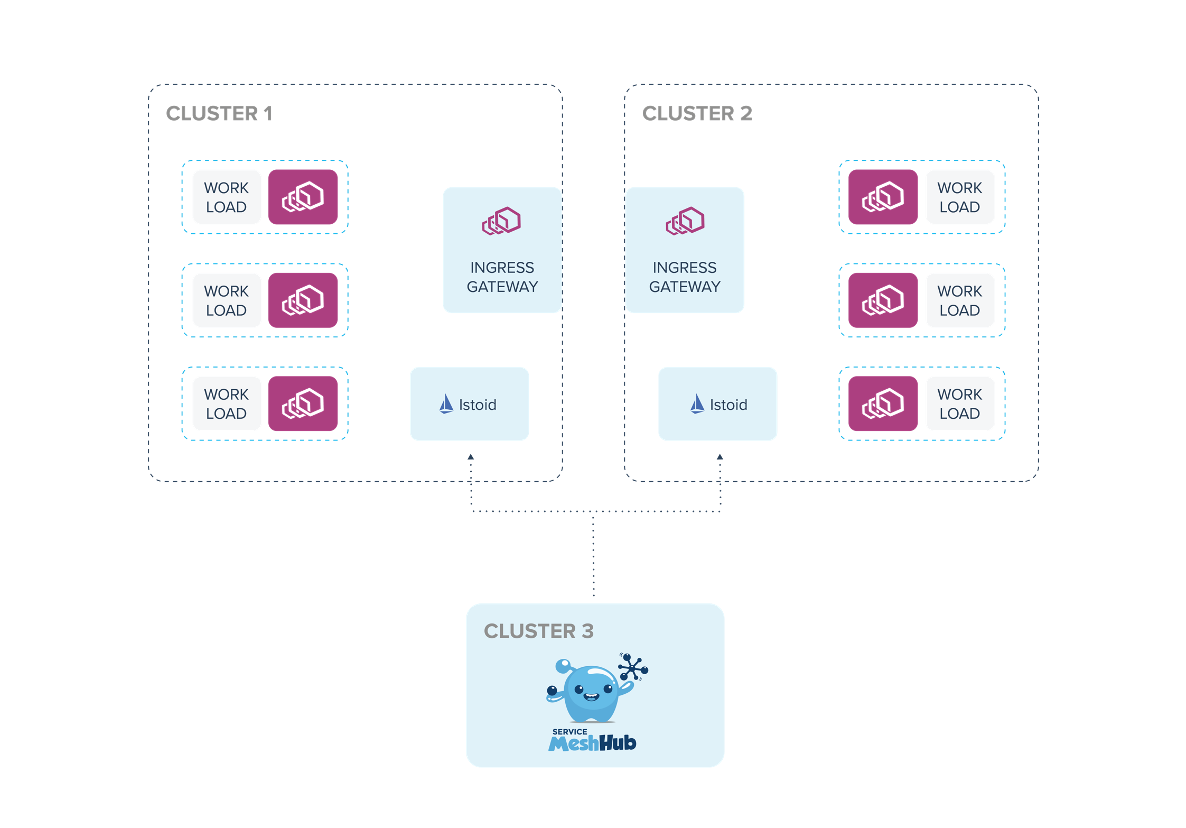
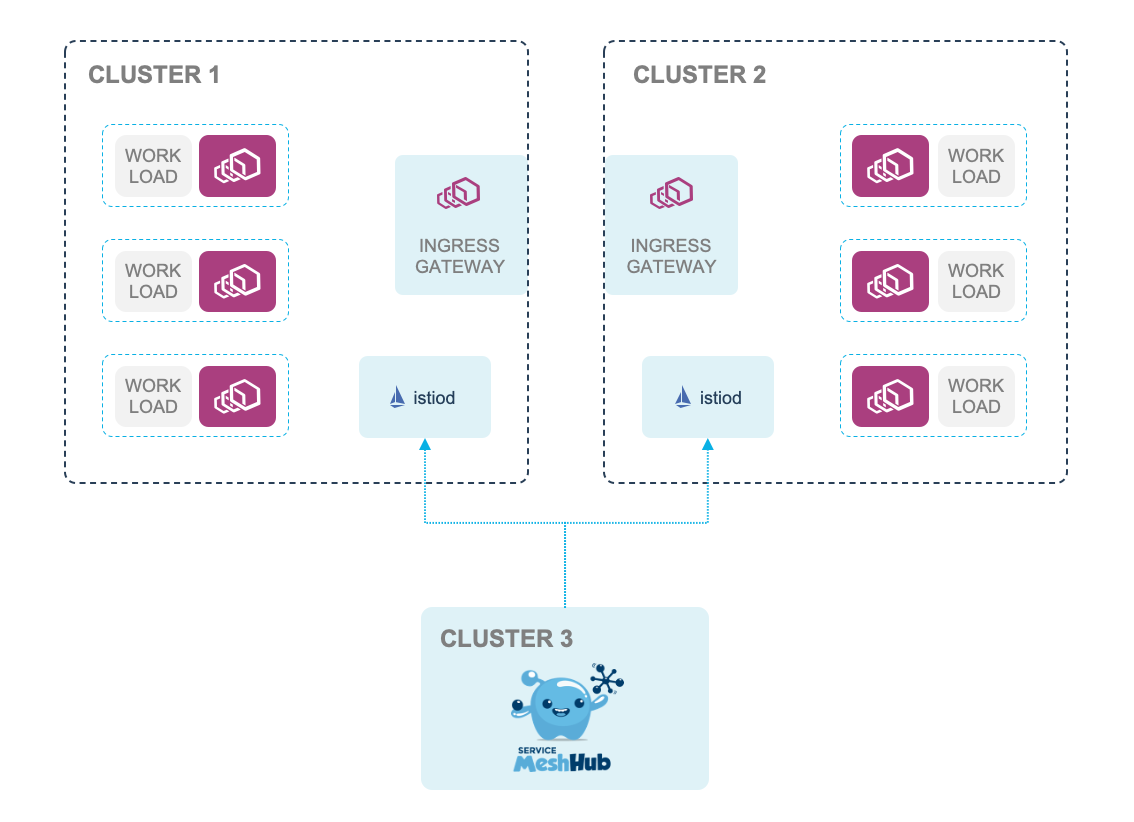
Update images on /concepts page (#916)
* Update images for Components, Discover, and Networking

diff --git a/docs/content/concepts/_index.md b/docs/content/concepts/_index.md
@@ -30,7 +30,7 @@ Managing a service mesh deployment that is consistent and secure across multiple
 
 Service Mesh Hub consists of a set of components that run on a single cluster, often referred to as your *management plane cluster*. The management plane components are stateless and rely exclusively on declarative CRDs.  Each service mesh installation that spans a deployment footprint often has its own control plane. You can think of Service Mesh Hub as a management plane for multiple control planes.
 
-![Service Mesh Hub Architecture]({{% versioned_link_path fromRoot="/img/smh-components.png" %}})
+![Service Mesh Hub Architecture]({{% versioned_link_path fromRoot="/img/concepts-smh-components.png" %}})
 
 Once a cluster is registered with Service Mesh Hub, it can start managing that cluster - discovering workloads, pushing out configurations, unifying the trust model, scraping metrics, and more. 
 
@@ -76,7 +76,7 @@ The first task of discovery is to find any service meshes that are installed on 
 
 Finally, discovery looks for services exposing the workloads of a mesh and writes a [`TrafficTarget`]({{% versioned_link_path fromRoot="/reference/api/mesh_service/" %}}) resource to the management plane cluster. 
 
-![Service Mesh Hub Architecture]({{% versioned_link_path fromRoot="/img/mesh-discovery.png" %}})
+![Service Mesh Hub Architecture]({{% versioned_link_path fromRoot="/img/concepts-smh-discovery.png" %}})
 
 At this point, the management plane has a complete view of the meshes, services, and workloads across your multi-cluster, multi-mesh environment. 
 
@@ -84,7 +84,7 @@ At this point, the management plane has a complete view of the meshes, services,
 
 While the `mesh-discovery` components discover the resources in registred clusters, the `mesh-networking` components make decisions about federating the various clusters and meshes. The `VirtualMesh` concept helps to drive the federation behavior. When you create a `VirtualMesh` resource, you define what federation and trust model to use. The `mesh-networking` component will then decide which services federate to which workloads and handle building the correct service-discovery mechanisms. For example, with Istio, Service Mesh Hub will create the appropriate `ServiceEntry` and `DestinationRule` resources to enable cross-cluster/mesh communication.
 
-![Service Mesh Hub Architecture]({{% versioned_link_path fromRoot="/img/mesh-networking.png" %}})
+![Service Mesh Hub Architecture]({{% versioned_link_path fromRoot="/img/concepts-smh-networking.png" %}})
 
 If users create a `TrafficPolicy` or `AccessPolicy` for Service Mesh Hub, the `mesh-networking` component will automatically translate those to the underlying mesh-specific resources. Again, for Istio, this would be `VirtualService`, `DesttinationRule`, and `AuthorizationPolicy` resources.
 
